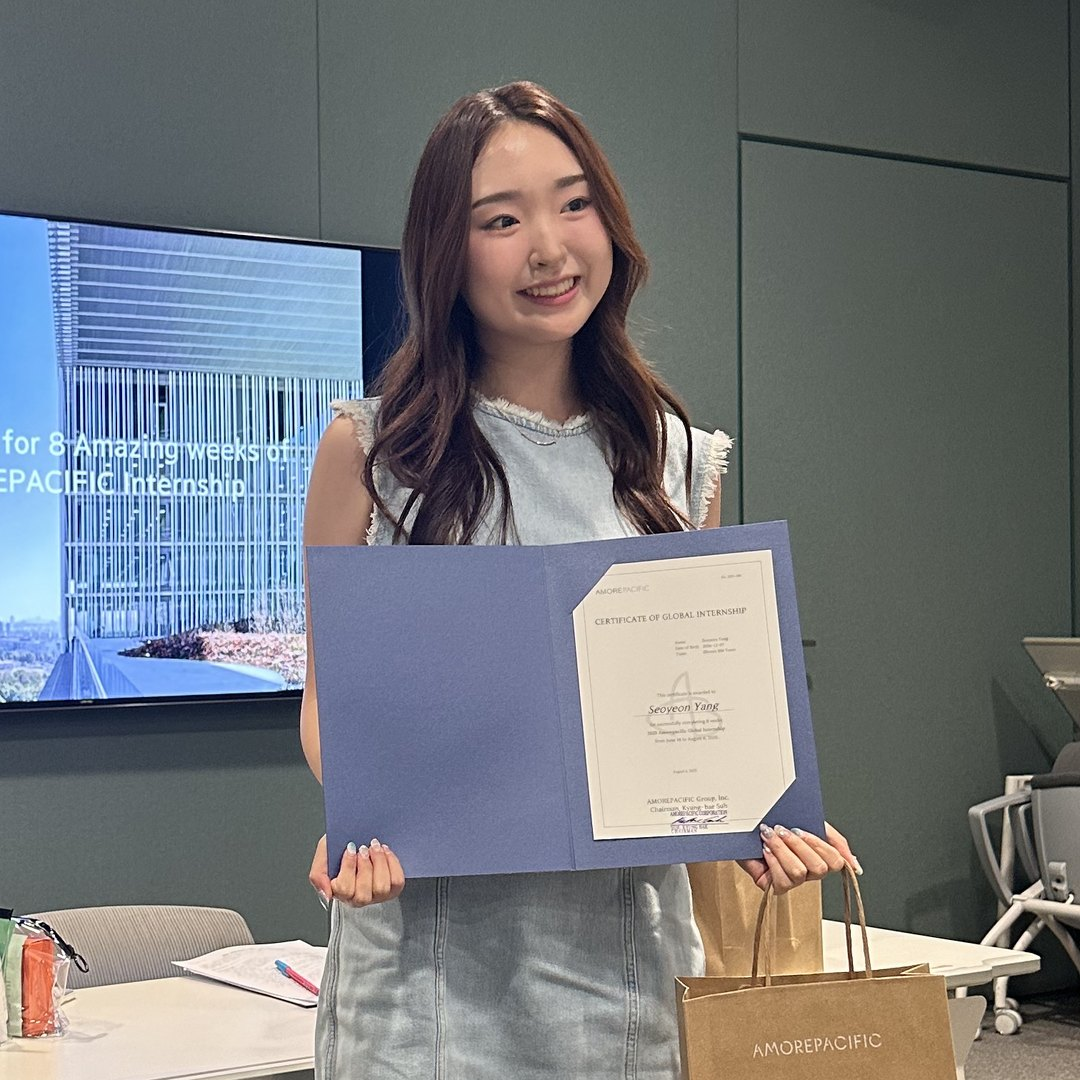
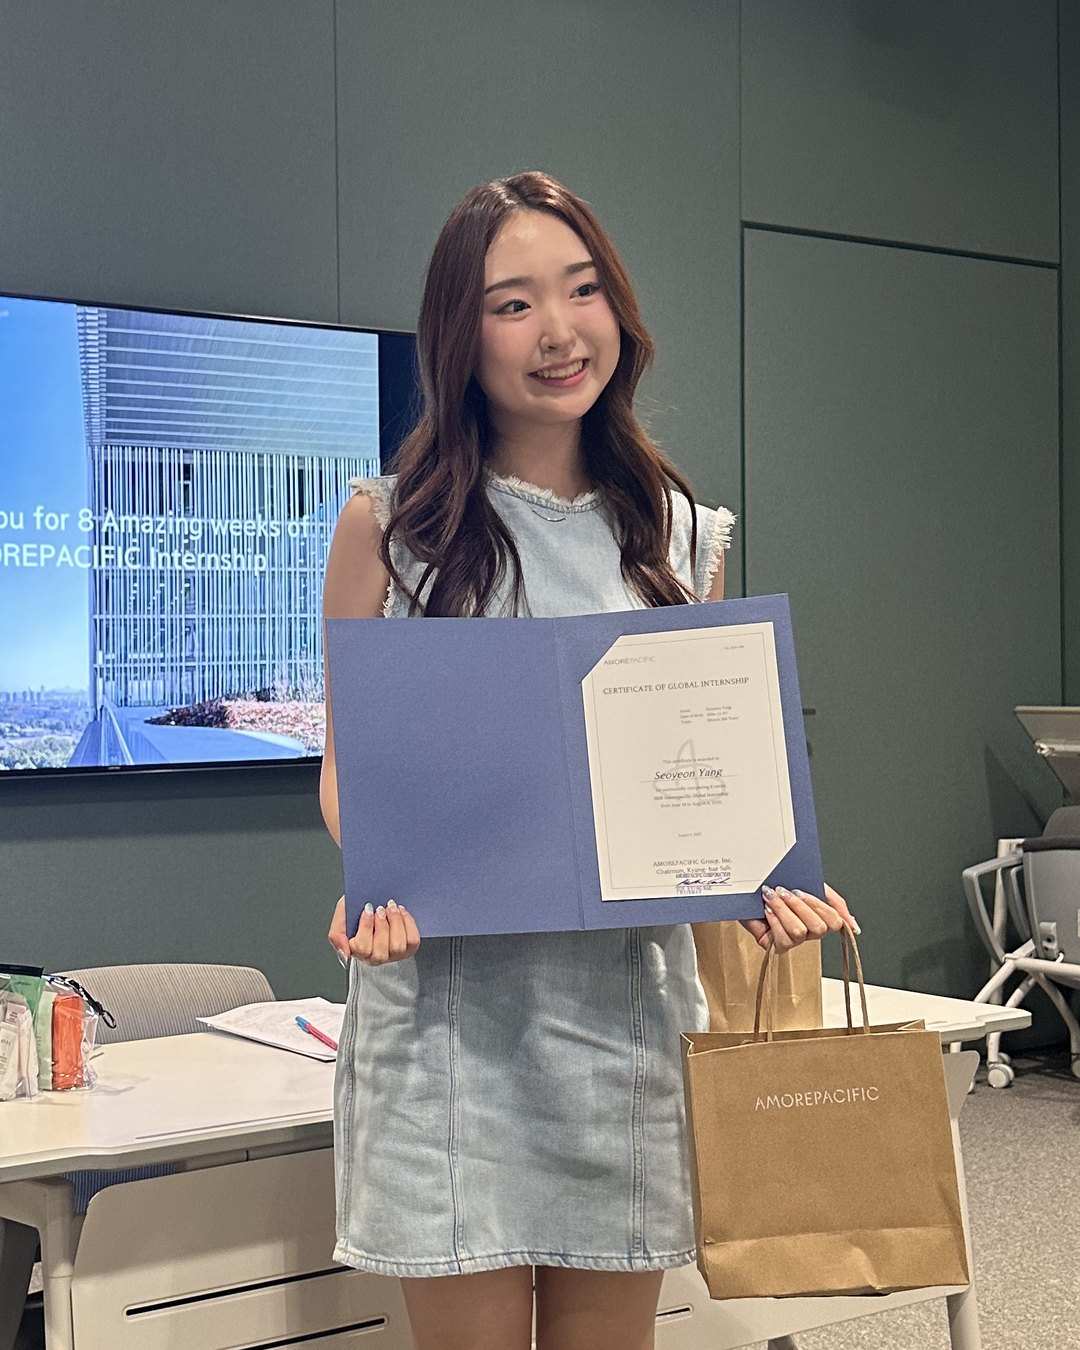
About: larger photo, natural portrait crop
Claude-Session: https://claude.ai/code/session_015vF3fknx26ijuPFq6BGXjN

diff --git a/about.html b/about.html
@@ -11,7 +11,7 @@
   <link rel="stylesheet" href="home.css?v=h9">
   <style>
     /* About page: same header, type and spacing tokens as the home page (home.css) */
-    .about { margin-top: 200px; padding-left: 3px; display: grid; grid-template-columns: 420px minmax(0, 680px); justify-content: center; gap: 96px; align-items: center; }
+    .about { margin-top: 200px; padding-left: 3px; display: grid; grid-template-columns: 520px minmax(0, 680px); justify-content: center; gap: 96px; align-items: center; }
     .about__photo { width: 100%; height: auto; border-radius: 16px; display: block; order: -1; }
     .about__lede { margin-top: 13px; font-size: 18px; line-height: 28px; color: var(--black-60); }
     .about__body { margin-top: 56px; display: flex; flex-direction: column; gap: 24px; }
@@ -45,7 +45,7 @@
       .connect__item a span:nth-child(2) { grid-row: 2; font-size: 15px; }
       .connect__item a span:last-child { grid-row: 1 / 3; grid-column: 2; }
     }
-    @media (max-width: 1023px) { .about { margin-top: 120px; padding-left: 0; grid-template-columns: 1fr; } .about__photo { max-width: 420px; } }
+    @media (max-width: 1023px) { .about { margin-top: 120px; padding-left: 0; grid-template-columns: 1fr; } .about__photo { max-width: 480px; } }
     @media (max-width: 640px) {
       .about { margin-top: 72px; }
       .about__lede { margin-top: 16px; font-size: 15px; line-height: 24px; }
@@ -84,7 +84,7 @@
         <p>Outside of school and design projects, I still love creating things just for fun, whether that’s a carefully curated Spotify playlist or Pinterest board. I also love exploring new cafés and bakeries for a sweet treat and spending time with my amazing friends!</p>
       </div>
       </div>
-      <img class="about__photo" src="about-june.jpg?v=2" width="1080" height="1080" alt="June smiling and holding her internship certificate at the end of her AMOREPACIFIC internship">
+      <img class="about__photo" src="about-june.jpg?v=3" width="1080" height="1350" alt="June smiling and holding her internship certificate at the end of her AMOREPACIFIC internship">
     </section>
     <section class="exp" aria-labelledby="exp-title">
       <h2 class="exp__title" id="exp-title">Experience</h2>
